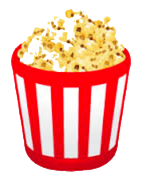
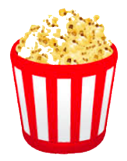
finished styling

diff --git a/src/App.css b/src/App.css
@@ -40,12 +40,12 @@
 
 .Logo {
   display: inline;
-  padding-left: 60px;
+  padding-left: 100px;
   padding-top: 5px;
 }
 
 .NavTitle {
-  font-style: "Roboto", sans-serif;
+  font-family: "Roboto", sans-serif;
   font-size: 22px;
   display: inline;
   position: relative;
@@ -53,24 +53,125 @@
   padding-left: 20px;
 }
 
+.Search-form {
+  text-align: center;
+}
+
 .Search-header {
+  font-family: "Acme", sans-serif;
+  font-size: 28px;
   text-align: center;
   padding-top: 100px;
 }
 
-.Search-form {
+.Title-search {
+  font-family: "Helvetica", sans-serif;
+  font-size: 14px;
+  padding: 2px 10px;
+  width: 250px;
+  height: 30px;
+  border-radius: 5px;
+  border: 1px solid rgb(150,150,150)
+}
+
+.Search-button {
+  font-family: "Helvetica", sans-serif;
+  font-size: 14px;
+  width: 80px;
+  height: 36px;
+  border-radius: 5px;
+  margin-left: 10px;
+  background-color: white;
+  border: 1px solid rgb(150,150,150);
+}
+
+.Search-button:hover {
+  background-color: rgb(204, 255, 204);
+}
+
+.Search-button:focus {
+  outline: none;
+}
+
+.Movie-description {
+  font-family: "Helvetica", sans-serif;
+  font-size: 16px;
+  text-align: justify;
+  margin: 50px 100px 20px 100px;
+}
+
+.Guess-request {
+  font-family: "Acme", sans-serif;
+  font-size: 20px;
   text-align: center;
+}
+
+.Guess-form {
+  text-align: center;
+  padding-bottom: 20px;
 }
 
 .Guess-container {
   display: block;
 }
 
-.counter {
-  font-size:50px;
-  background-color: #FF6F6F;
-  width:200px;
-  border-radius: 50%;
-  height:200px;
-  vertical-align: middle;
+.Guess-input {
+  font-family: "Helvetica", sans-serif;
+  font-size: 14px;
+  padding: 2px 10px;
+  width: 50px;
+  height: 30px;
+  border-radius: 5px;
+  border: 1px solid rgb(150,150,150)
+}
+
+.Guess-submit {
+  font-family: "Helvetica", sans-serif;
+  font-size: 14px;
+  width: 50px;
+  height: 36px;
+  border-radius: 5px;
+  margin-left: 10px;
+  background-color: white;
+  border: 1px solid rgb(150,150,150);
+}
+
+.Guess-submit:hover {
+  background-color: rgb(204, 255, 204);
+}
+
+.Guess-submit:focus {
+  outline: none;
+}
+
+.Guess-result-msg1 {
+  font-family: "Helvetica", sans-serif;
+  font-size: 16px;
+  text-align: center;
+  color: rgb(153, 0, 0);
+  font-weight: 600;
+}
+
+.Guess-result-msg2 {
+  font-family: "Acme", sans-serif;
+  font-size: 24px;
+  text-align: center;
+}
+
+.Results-inner-container {
+  text-align: center;
+}
+
+.Popcorn {
+  display: inline;
+}
+
+.Counter {
+  font-family: "Helvetica", sans-serif;
+  font-size: 50px;
+  text-align: center;
+  display: inline;
+  position: relative;
+  top: -50px;
+  padding-left: 20px;
 }

diff --git a/src/components/Results.js b/src/components/Results.js
@@ -1,6 +1,7 @@
 import React, { Component } from 'react';
 import { findDOMNode } from 'react-dom';
 import $ from 'jquery';
+import popcorn from '../popcorn.png';
 
 class Results extends Component {
 
@@ -25,11 +26,7 @@ class Results extends Component {
   displayRating() {
     const el = findDOMNode(this.refs.ratingCounter);
     const msgEl = findDOMNode(this.refs.finalMsg);
-    //var $el = $(el);
-    //$(el).slideToggle();
-    //var $el = $('this.refs.ratingCounter')
-    //console.log("animation here");
-    //console.log($el);
+    const imgEl = findDOMNode(this.refs.popcorn);
 
     var diff = Math.abs(this.props.guess - this.props.rating);
     var msg = '';
@@ -41,7 +38,6 @@ class Results extends Component {
       msg = 'Sorry, not even close!'
     }
 
-
     $(el).each(function() {
       var $this = $(this),
           countTo = $this.attr('data-count');
@@ -52,26 +48,17 @@ class Results extends Component {
 
       {
 
-        duration: 1000,
+        duration: 2000,
         easing:'swing',
         step: function() {
-          $this.text(Math.floor(this.countNum));
+          $this.text(Math.floor(this.countNum) + '%');
         },
         complete: function() {
-          $this.text(this.countNum);
+          $this.text(this.countNum + '%');
           $(msgEl).text(msg);
         }
-
       });
-
-
-
     });
-
-
-
-
-
   }
 
   render() {
@@ -89,11 +76,13 @@ class Results extends Component {
 
       return (
         <div className="Results-container">
-            <p>You guessed {this.props.guess}%</p>
-            <p>The actual Tomatometer percentage is {this.props.rating}%</p>
-
-            <div className="counter" ref="ratingCounter" data-count={this.props.rating}>0</div>
-            <p className="finalMsg" ref="finalMsg"></p>
+            <p className="Guess-result-msg1">You guessed {this.props.guess}%</p>
+            <p className="Guess-result-msg1">The actual TOMATOMETER rating is - wait for it...</p>
+            <div className="Results-inner-container">
+                <img className="Popcorn" ref="popcorn" src={popcorn} />
+                <h2 className="Counter" ref="ratingCounter" data-count={this.props.rating}>0%</h2>
+            </div>
+            <p className="Guess-result-msg2" ref="finalMsg"></p>
         </div>
       )
 

diff --git a/src/components/Guess.js b/src/components/Guess.js
@@ -37,17 +37,24 @@ class Guess extends Component {
     if (this.props.display==="true") {
       return (
         <div className="Guess-container">
-            <p>{this.props.description}</p>
-            <p>What is your guess?</p>
-            <input
-              type='number'
-              onChange={event => this.onInputChange(event)}
-            />
-            <input
-              type='button'
-              value='Go!'
-              onClick={event => this.onGuessClick(event)}
-            />
+            <p className="Movie-description">{this.props.description}</p>
+            <p className="Guess-request">What is your guess?</p>
+            <div className="Guess-form">
+              <input
+                className="Guess-input"
+                type='number'
+                min="1"
+                max="100"
+                maxLength="3"
+                onChange={event => this.onInputChange(event)}
+              />
+              <input
+                className="Guess-submit"
+                type='button'
+                value='Go!'
+                onClick={event => this.onGuessClick(event)}
+              />
+            </div>
             <Results display={this.state.displayResults} guess={this.state.guess} rating={this.props.rating}/>
         </div>
       )

diff --git a/public/index.html b/public/index.html
@@ -4,6 +4,8 @@
     <meta charset="utf-8">
     <meta name="viewport" content="width=device-width, initial-scale=1, shrink-to-fit=no">
     <meta name="theme-color" content="#000000">
+
+    <title>TomatoTest</title>
     <!--
       manifest.json provides metadata used when your web app is added to the
       homescreen on Android. See https://developers.google.com/web/fundamentals/engage-and-retain/web-app-manifest/
@@ -22,15 +24,12 @@
 
     <!-- STYLESHEETS -->
     <link rel="stylesheet" href="../App.css">
-    <link rel='stylesheet' href="https://fonts.googleapis.com/css?family=Khula|Open+Sans|Roboto|Lato|Raleway">
+    <link rel='stylesheet' href="https://fonts.googleapis.com/css?family=Khula|Open+Sans|Roboto|Lato|Raleway|Acme|Boogaloo">
 
 
     <!-- VENDOR SCRIPTS -->
     <script src="//ajax.googleapis.com/ajax/libs/jquery/3.1.1/jquery.min.js"></script>
 
-
-
-    <title>React App</title>
   </head>
   <body>
     <noscript>

diff --git a/src/components/Search.js b/src/components/Search.js
@@ -57,15 +57,17 @@ class Search extends Component {
       return (
         <div>
           <p className="Search-header">
-            Search a Movie and Guess the TomatoMeter Score!
+            Search a Movie and Guess the TOMATOMETER Rating!
           </p>
           <div className="Search-form">
             <input
+              className="Title-search"
               type='text'
               placeholder='Enter a movie title'
               onChange={event => this.onInputChange(event)}
             />
             <input
+              className="Search-button"
               type='button'
               value='Search'
               onClick={event => this.onSearchClick(event)}
